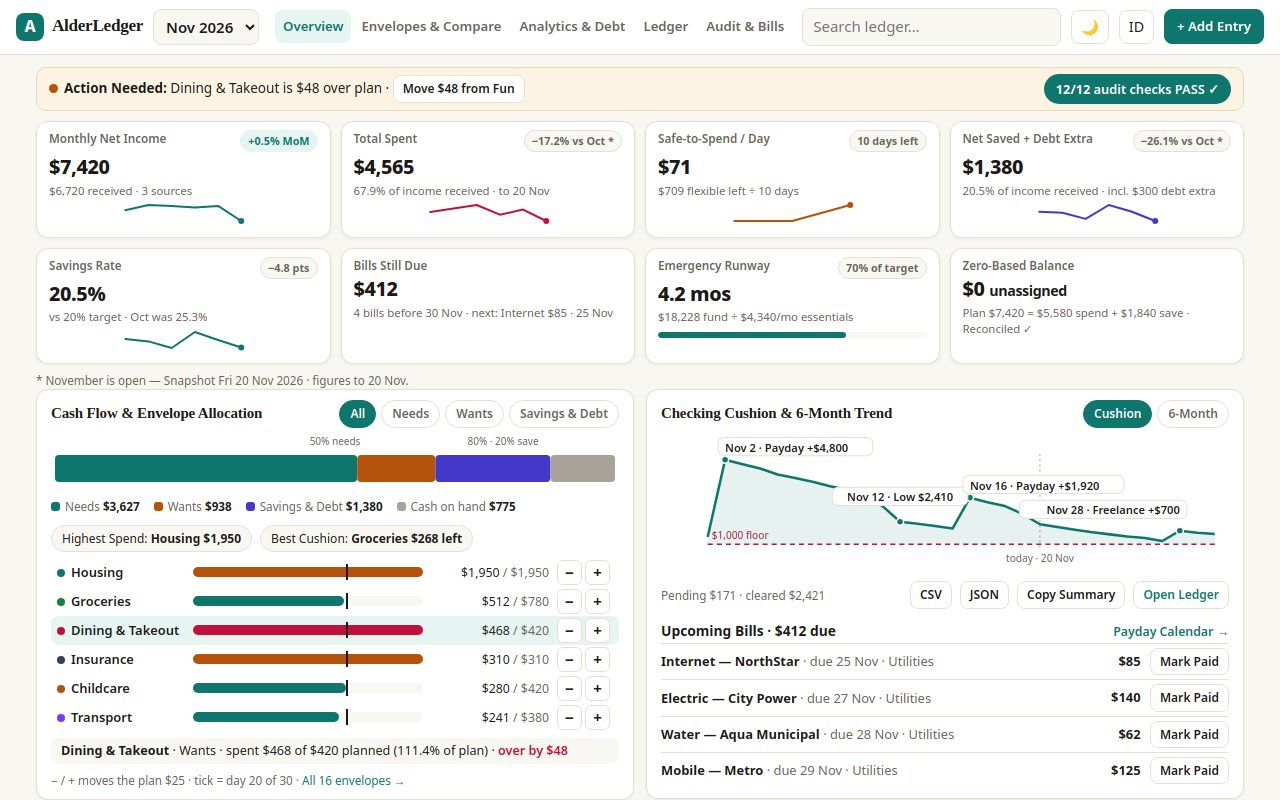
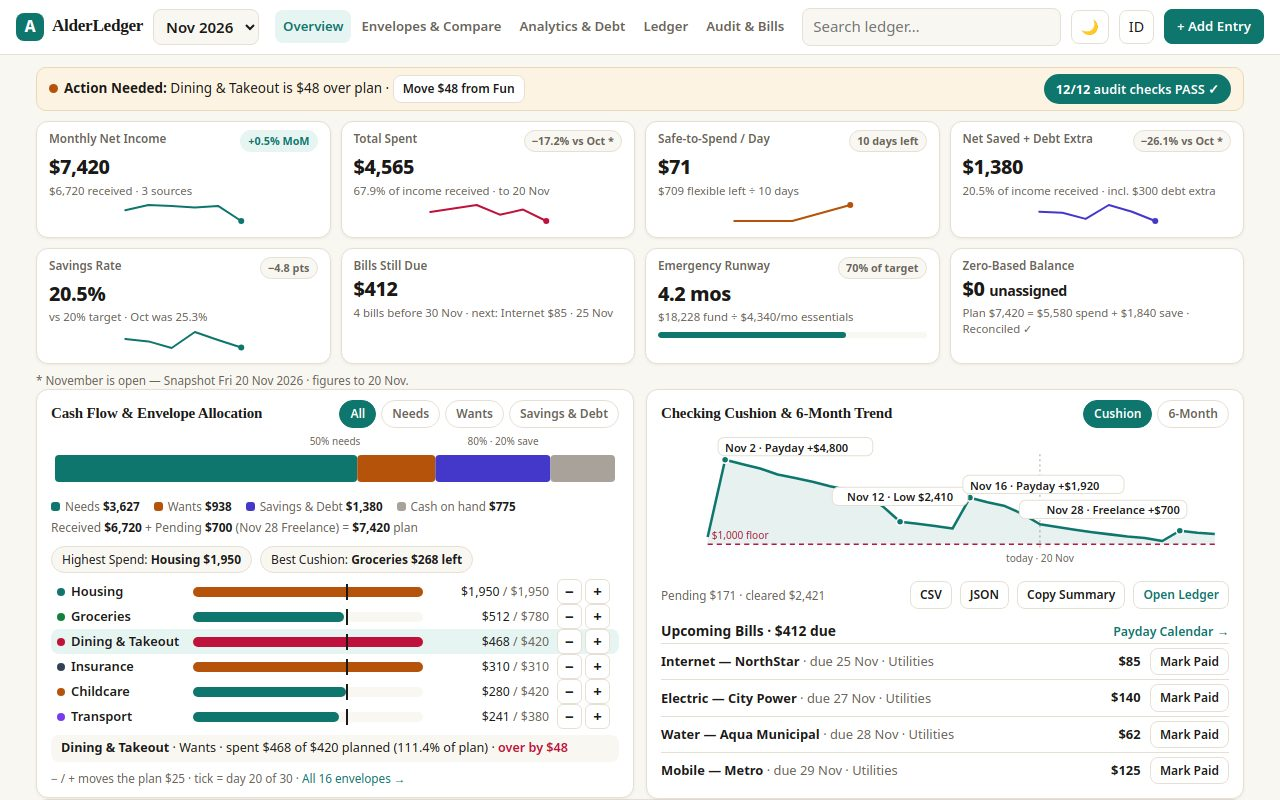
AlderLedger V6: reconciliation note + bill-draft calendar tiles + split breakdown
- Overview: the allocation legend now carries an explicit reconciliation
  line — 'Received $6,720 + Pending $700 (Nov 28 Freelance) = $7,420
  plan' — computed live from incomeReceived / expected income and the
  pending freelance source, so the $6,720 bar against the $7,420 plan
  is reconciled in one line. The pace rows lose 2px of padding each, so
  the left panel still ends at 798px and the right at 799px.
- Shot 3 strip, left: the plain payday summary is now a 5-tile
  Payday & bill draft calendar (Nov 25–Dec 2) — each tile shows its
  flows and its CUSHION-projected EOD with a floor check, and a live
  Pay / Paid toggle (cal-bill for the four November bills, dec-rent
  for the 2 Dec rent). Window low $1,210 (27 Nov) vs the $1,000 floor
  reads PASS. Footer link is now '12/12 Audit PASS · Full 30-Day
  Calendar →' to #/audit.
- Shot 3 strip, right: the register keeps its 4 rows and gains an
  expanded inline split check on Corner Market — 'Groceries $153.60 +
  Gifts $43.68 = Split Sum $197.28 · Balanced $0.00 ✓' (fmt2,
  cents-exact, computed from the actual splits). A JSON export button
  joins Download CSV and + Split Receipt.
- Data integrity: the prompt's draft EODs ($2,485 / $2,345 / $2,983 /
  $2,858) and split figures ($142 / $55) do NOT match the locked
  dataset — the real CUSHION EODs are $1,480 / $1,210 / $1,848 /
  $1,720 and the real split is $153.60 + $43.68. The strip uses the
  real numbers so it reconciles with the calendar, the cushion chart
[…]

Changed region(s): [[0.0312, 0.6562, 0.4688, 1.0]]

diff --git a/app/views/analytics.js b/app/views/analytics.js
@@ -2,7 +2,7 @@
 // Three sub-tabs: variance charts, the snowball-vs-avalanche simulator,
 // and the sinking-fund goals, plus the full category / bills table.
 
-import { DEBTS, GOALS, VAULTS, BILLS, CUSHION, INCOME, simulateDebt, fmt, pct } from '../data.js';
+import { DEBTS, GOALS, VAULTS, BILLS, CUSHION, INCOME, simulateDebt, fmt, fmt2, pct } from '../data.js';
 import { varianceDonut, trendChart, debtCurve } from '../charts.js';
 import { t } from '../i18n.js';
 
@@ -33,39 +33,76 @@ const MONTHS_SHORT = ['Jan', 'Feb', 'Mar', 'Apr', 'May', 'Jun', 'Jul', 'Aug', 'S
 function registerStrip(state, s, audit) {
   const nov = INCOME['2026-11'].sources;
   const maya = nov.find((x) => x.name.includes('Maya'));
-  const jordan = nov.find((x) => x.name.includes('Jordan'));
+  const freelance = nov.find((x) => x.pending);
   const rent = BILLS.find((b) => b.id === 'rent');
   const decBuffer = CUSHION[29] + maya.amount - rent.amount;
-  const chips = BILLS.filter((b) => b.status === 'due').map((b) => {
-    const paid = state.user.paidBills.includes(b.id);
-    const short = b.name.split(' — ')[0];
-    return `<button class="strip-chip${paid ? ' paid' : ''}" data-action="cal-bill" data-bill="${b.id}">${paid ? '✓ ' : ''}${esc(short)} ${fmt(b.amount)} · ${paid ? 'Paid' : `due ${Number(b.due.slice(8, 10))} Nov`}</button>`;
-  }).join('');
+  const decRentPaid = state.user.decRentPaid !== false;
   const dLabel = (d) => `${Number(d.slice(8, 10))} ${MONTHS_SHORT[Number(d.slice(5, 7)) - 1]}`;
   const envName = (id) => { const e = s.envelopes.find((x) => x.id === id); return e ? e.name : id; };
   // Short labels (same convention as the allocator) so a split row's
   // "Split: … · Balanced $0.00 ✓" fits on one line without ellipsis.
   const SHORT_ENV = { 'Gifts & Giving': 'Gifts', 'Dining & Takeout': 'Dining Out', 'Extra Debt Payment': 'Extra Debt', 'Fun & Streaming': 'Fun & Media' };
   const shortEnv = (id) => SHORT_ENV[envName(id)] || envName(id);
+  // --- Left: Payday & bill draft calendar (Nov 25 – Dec 2). EODs are the
+  // cushion projections — the same numbers the #/audit calendar shows —
+  // and the Pay/Paid chip is the live paid state (cal-bill / dec-rent).
+  // NOTE: the prompt's draft EODs ($2,485 / $2,345 / $2,983 / $2,858) do
+  // NOT match CUSHION — the real projections are $1,480 / $1,210 /
+  // $1,848 / $1,720 (Nov 25–29) and $4,490 on Dec 2. The strip uses the
+  // real CUSHION values so it reconciles with the calendar and the chart.
+  const dueBills = BILLS.filter((b) => b.status === 'due');
+  const isPaid = (id) => state.user.paidBills.includes(id);
+  const tileFor = (bill) => {
+    const day = Number(bill.due.slice(8, 10));
+    const eod = CUSHION[day - 1];
+    const short = bill.name.split(' — ')[0];
+    const paid = isPaid(bill.id);
+    const flows = bill.id === 'water'
+      ? `<span class="good">Freelance +${fmt(freelance.amount)}</span><span>${esc(short)} −${fmt(bill.amount)}</span>`
+      : `<span>${esc(short)} −${fmt(bill.amount)}</span>`;
+    return `<div class="cal-tile"><b>${dLabel(bill.due)}</b>${flows}<span class="cal-eod">EOD ${fmt(eod)} <i class="floor-ok" title="Above the $1,000 floor">✓</i></span><button class="tile-pay${paid ? ' paid' : ''}" data-action="cal-bill" data-bill="${bill.id}" title="Click to toggle paid / scheduled">${paid ? 'Paid ✓' : 'Pay'}</button></div>`;
+  };
+  const tiles = dueBills.map(tileFor).join('');
+  const dec2 = `<div class="cal-tile"><b>Dec 2</b><span class="good">Payday +${fmt(maya.amount)}</span><span>Rent −${fmt(rent.amount)}</span><span class="cal-eod">EOD ${fmt(decBuffer)} <i class="floor-ok" title="Above the $1,000 floor">✓</i></span><button class="tile-pay${decRentPaid ? ' paid' : ''}" data-action="dec-rent" title="Click to toggle December rent paid / due">${decRentPaid ? 'Rent Paid ✓' : 'Rent due'}</button></div>`;
+  const eods = [...dueBills.map((b) => CUSHION[Number(b.due.slice(8, 10)) - 1]), decBuffer];
+  const lowEod = Math.min(...eods);
+  const lowDay = lowEod === decBuffer ? 'Dec 2' : dLabel(dueBills.find((b) => CUSHION[Number(b.due.slice(8, 10)) - 1] === lowEod).due);
+  const floorOk = lowEod >= 100000;
+  // --- Right: split-receipt register. The top three rows stay single-line;
+  // Corner Market is expanded with its live split breakdown, computed from
+  // the actual splits (Groceries $153.60 + Gifts $43.68 = $197.28) — the
+  // prompt's $142 / $55 figures are not the seeded split, so they are not
+  // used; the strip reconciles with the ledger instead.
   const splits = s.txns.filter((x) => x.splits);
   const recent = [...s.txns].filter((x) => !x.splits && x.type === 'expense').sort((a, b) => b.date.localeCompare(a.date) || b.amount - a.amount).slice(0, 2);
-  const regRows = [...splits, ...recent].sort((a, b) => b.date.localeCompare(a.date) || b.amount - a.amount).slice(0, 4).map((x) => {
+  const corner = splits.find((x) => x.payee === 'Corner Market');
+  const others = [...splits.filter((x) => x !== corner), ...recent].sort((a, b) => b.date.localeCompare(a.date) || b.amount - a.amount).slice(0, 3);
+  const regRow = (x) => {
+    // The expanded Corner Market row drops the "· Balanced $0.00 ✓" from
+    // its sub-line — the split check directly below it carries the full
+    // balance, and the long sub would otherwise truncate with "…".
     const sub = x.splits
-      ? `Split: ${x.splits.map((sp) => shortEnv(sp.envelope)).join(' + ')} · Balanced $0.00 ✓`
+      ? (x === corner ? `Split: ${x.splits.map((sp) => shortEnv(sp.envelope)).join(' + ')}` : `Split: ${x.splits.map((sp) => shortEnv(sp.envelope)).join(' + ')} · Balanced $0.00 ✓`)
       : esc(envName(x.envelope));
     return `<div class="reg-row"><span class="reg-date">${dLabel(x.date)}</span><span class="reg-payee"><b>${esc(x.payee)}</b> <span class="muted">· ${sub}</span></span><b class="num">${fmt(x.amount)}</b><button class="pill-btn status-pill${x.status === 'scheduled' ? ' scheduled' : ''}" data-action="txn-status" data-id="${x.id}" title="Click to toggle cleared / scheduled">${x.status === 'scheduled' ? 'Scheduled' : 'Cleared ✓'}</button></div>`;
-  }).join('');
+  };
+  const regRows = others.map(regRow).join('');
+  const splitSum = corner.splits.reduce((a, sp) => a + sp.amount, 0);
+  const splitBal = corner.amount - splitSum;
+  const splitCheck = `${regRow(corner)}
+    <div class="split-check">${corner.splits.map((sp) => `<b>${esc(shortEnv(sp.envelope))} ${fmt2(sp.amount)}</b>`).join(' + ')} = <b>Split Sum ${fmt2(splitSum)}</b> · Balanced <b class="good">${fmt2(splitBal)} ✓</b></div>`;
   const auditOk = audit && audit.passed === audit.total;
   return `<section class="card strip-card"><div class="card-head"><h2>Reconciled cash-flow &amp; register</h2><span class="pill">Nov 2026 · to 20 Nov</span></div>
     <div class="sched-cols">
-      <div><h3>Payday &amp; bill funding</h3>
-        <p class="strip-lines"><b>Nov 2</b> +${fmt(maya.amount)} payday · <b>Nov 12</b> Low ${fmt(CUSHION[11])} · <b>Nov 16</b> +${fmt(jordan.amount)} payday<br>Dec rent buffer: <b class="good">${fmt(decBuffer)}</b> after the 2 Dec payday</p>
-        <div class="strip-chips">${chips}</div>
-        <p class="strip-link"><a href="#/audit">${audit ? `${audit.passed}/${audit.total} Audit ${auditOk ? 'PASS ✓' : '— check'}` : 'Audit'} · Full Calendar →</a></p>
+      <div><h3>Payday &amp; bill draft calendar</h3>
+        <div class="cal-tiles">${tiles}${dec2}</div>
+        <p class="strip-floor">Window low <b>${fmt(lowEod)}</b> (${esc(lowDay)}) · $1,000 floor · <b class="${floorOk ? 'good' : 'bad'}">${floorOk ? 'PASS ✓' : 'BELOW — check'}</b></p>
+        <p class="strip-link"><a href="#/audit">${audit ? `${audit.passed}/${audit.total} Audit ${auditOk ? 'PASS ✓' : '— check'}` : 'Audit'} · Full 30-Day Calendar →</a></p>
       </div>
       <div><h3>Split-receipt register</h3>
         ${regRows}
-        <div class="strip-actions"><button class="btn btn-sm" data-action="export" data-kind="csv">Download CSV</button><a class="btn btn-sm btn-primary" href="#/ledger">+ Split Receipt</a></div>
+        ${splitCheck}
+        <div class="strip-actions"><button class="btn btn-sm" data-action="export" data-kind="csv">Download CSV</button><button class="btn btn-sm" data-action="export" data-kind="json">JSON</button><a class="btn btn-sm btn-primary" href="#/ledger">+ Split Receipt</a></div>
       </div>
     </div></section>`;
 }

diff --git a/app/style.css b/app/style.css
@@ -109,7 +109,9 @@ main { max-width: 1240px; margin: 0 auto; padding: 12px 16px 20px; }
 .chips { display: flex; gap: 8px; flex-wrap: wrap; margin: 10px 0 4px; }
 .chip { font-size: 0.8rem; background: var(--bg); border: 1px solid var(--border); border-radius: 999px; padding: 4px 10px; }
 .pace-list { margin-top: 6px; }
-.pace-row { display: grid; grid-template-columns: 128px 1fr 118px 56px; align-items: center; gap: 8px; padding: 2px 6px; border-radius: 8px; cursor: pointer; }
+.recon-line { font-size: 0.8rem; color: var(--muted); margin-top: 4px; }
+.recon-line b { color: var(--ink); }
+.pace-row { display: grid; grid-template-columns: 128px 1fr 118px 56px; align-items: center; gap: 8px; padding: 0 6px; border-radius: 8px; cursor: pointer; }
 .pace-row:hover { background: var(--bg); }
 .pace-row.sel { background: var(--teal-soft); }
 .pace-name { font-size: 0.86rem; font-weight: 600; white-space: nowrap; overflow: hidden; text-overflow: ellipsis; }
@@ -290,15 +292,37 @@ button.cal-bill { border: 0; cursor: pointer; font: inherit; text-align: left; w
    width on a phone — the grid-2/kpi-grid rule above exists for the same
    reason. */
 .sched-cols > * { min-width: 0; }
-.sched-cols h3 { margin: 4px 0 2px; }
+.sched-cols h3 { margin: 2px 0 2px; }
 
 /* V4: Reconciled Cash-Flow & Register Strip (variance tab bottom). Rows
    are single-line so the whole strip ends well above the 800px fold. */
 .strip-lines { margin: 6px 0 8px; line-height: 1.5; }
 /* The register column gets the wider share so a split row's full
    "Split: … · Balanced $0.00 ✓" fits on one line without ellipsis. */
-.strip-card .sched-cols { grid-template-columns: 0.85fr 1.15fr; }
+.strip-card .sched-cols { grid-template-columns: 1fr 1fr; }
 .strip-chips { display: flex; flex-wrap: wrap; gap: 6px; margin: 2px 0 8px; }
+/* V6: bill-draft calendar tiles (Nov 25 – Dec 2). Five tiles in a row on
+   desktop; they wrap to three-across on phones. Every tile is one
+   min-width:0 grid child so nothing can push the strip wider than 390px. */
+.cal-tiles { display: grid; grid-template-columns: repeat(5, minmax(0, 1fr)); gap: 6px; margin: 2px 0 8px; }
+.cal-tile { min-width: 0; display: flex; flex-direction: column; gap: 1px; background: var(--bg); border: 1px solid var(--border); border-radius: 8px; padding: 6px 8px; font-size: 0.78rem; line-height: 1.45; }
+.cal-tile b { font-size: 0.82rem; }
+.cal-tile span { white-space: nowrap; overflow: hidden; text-overflow: ellipsis; }
+.cal-eod { font-weight: 700; }
+.floor-ok { color: var(--teal); font-style: normal; font-weight: 700; }
+.tile-pay { align-self: flex-start; margin-top: 3px; border: 1px solid var(--border); background: var(--card); color: var(--text); border-radius: 999px; padding: 2px 9px; font: inherit; font-size: 0.78rem; font-weight: 700; cursor: pointer; }
+.tile-pay.paid { background: var(--teal-soft); color: var(--teal); border-color: var(--teal); }
+.strip-floor { margin: 2px 0 0; font-size: 0.8rem; color: var(--muted); }
+.split-check { margin: 2px 0 1px 54px; padding: 4px 8px; background: var(--bg); border: 1px solid var(--border); border-left: 3px solid var(--teal); border-radius: 6px; font-size: 0.8rem; line-height: 1.5; }
+/* V6: the strip must end at <= 785px, so its rows and actions are tighter
+   than the rest of the app — the register rows lose 3px of padding each
+   and the actions sit 4px closer to the split check. */
+.strip-card .reg-row { padding: 3px 0; }
+.strip-card .card-head { margin-bottom: 6px; }
+@media (max-width: 640px) {
+  .cal-tiles { grid-template-columns: repeat(3, minmax(0, 1fr)); }
+  .split-check { margin-left: 0; }
+}
 .strip-chip { border: 1px solid var(--border); background: var(--bg); color: var(--text); border-radius: 999px; padding: 4px 10px; font: inherit; font-size: 0.8rem; font-weight: 600; cursor: pointer; }
 .strip-chip.paid { background: var(--teal-soft); color: var(--teal); border-color: var(--teal); }
 .strip-link { margin: 4px 0 0; font-weight: 700; }
@@ -308,7 +332,7 @@ button.cal-bill { border: 0; cursor: pointer; font: inherit; text-align: left; w
 .reg-date { color: var(--muted); font-size: 0.8rem; width: 44px; flex: none; }
 .reg-payee { flex: 1; min-width: 0; white-space: nowrap; overflow: hidden; text-overflow: ellipsis; }
 .reg-row .num { font-variant-numeric: tabular-nums; white-space: nowrap; }
-.strip-actions { display: flex; gap: 8px; margin-top: 10px; }
+.strip-actions { display: flex; flex-wrap: wrap; gap: 8px; margin-top: 6px; }
 
 /* ---- Responsive ---- */
 @media (max-width: 1280px) {
@@ -368,6 +392,10 @@ button.cal-bill { border: 0; cursor: pointer; font: inherit; text-align: left; w
   .debt-card h3 { margin-bottom: 2px; }
   .curve-callout { margin-top: 2px; }
   .sched-cols { grid-template-columns: 1fr; }
+  /* V6: the strip's two-column rule is more specific than the generic
+     one above, so it must be restated here or the strip stays side by
+     side on phones (158px columns, unreadable register rows). */
+  .strip-card .sched-cols { grid-template-columns: 1fr; }
   .sched-cols h3 { margin: 2px 0 2px; }
   /* V5: four more mobile debt cuts so the schedule card's first row
      (Store Card · paid off mo 4) is inside the 844px frame. The schedule

diff --git a/app/charts.js b/app/charts.js
@@ -3,7 +3,9 @@
 // All charts use viewBox + width 100% so they scale without clipping,
 // and every annotation sits inside the viewBox with room to spare.
 
-import { HISTORY, CUSHION, ENVELOPES, fmt } from './data.js';
+import { HISTORY, CUSHION, ENVELOPES, INCOME, fmt } from './data.js';
+
+const MONTHS_SHORT = ['Jan', 'Feb', 'Mar', 'Apr', 'May', 'Jun', 'Jul', 'Aug', 'Sep', 'Oct', 'Nov', 'Dec'];
 
 const esc = (s) => String(s).replace(/&/g, '&amp;').replace(/</g, '&lt;');
 
@@ -43,7 +45,15 @@ export function allocationStrip(s) {
   }).join('');
   const marks = [50, 80].map((p) => { const mx = (p / 100) * W; return `<line x1="${mx}" y1="19" x2="${mx}" y2="47" stroke="#0F172A" stroke-width="2" stroke-dasharray="3 3"/><text x="${mx}" y="9" text-anchor="middle" font-size="10" fill="var(--muted)">${p === 50 ? '50% needs' : '80% · 20% save'}</text>`; }).join('');
   const legend = parts.map((p) => `<span class="strip-leg"><i style="background:${p.color}"></i>${esc(p.label)} <b>${fmt(p.value)}</b></span>`).join('');
-  return `<svg viewBox="0 0 ${W} 52" width="100%" height="52" role="img" aria-label="Income allocation">${marks}${segs}</svg><div class="strip-legend">${legend}</div>`;
+  // Reconciliation: the bar is shares of RECEIVED income ($6,720), but
+  // the plan is $7,420 — the $700 freelance due 28 Nov is still pending.
+  // The note makes the gap explicit so the bar never looks short.
+  const pending = s.expected - s.incomeReceived;
+  const pendSrc = INCOME[s.monthKey] ? INCOME[s.monthKey].sources.find((x) => x.pending) : null;
+  const recon = pending > 0 && pendSrc
+    ? `<div class="recon-line">Received <b>${fmt(s.incomeReceived)}</b> + Pending <b>${fmt(pending)}</b> (${esc(MONTHS_SHORT[Number(pendSrc.date.slice(5, 7)) - 1])} ${Number(pendSrc.date.slice(8, 10))} ${esc(pendSrc.name.split(' — ')[0])}) = <b>${fmt(s.expected)}</b> plan</div>`
+    : '';
+  return `<svg viewBox="0 0 ${W} 52" width="100%" height="52" role="img" aria-label="Income allocation">${marks}${segs}</svg><div class="strip-legend">${legend}</div>${recon}`;
 }
 
 // 30-day checking cushion curve (Nov, actual to the 20th, projected

diff --git a/app/main.js b/app/main.js
@@ -235,6 +235,13 @@ document.addEventListener('click', (ev) => {
       }
       saveUser(); render();
     }
+  } else if (action === 'dec-rent') {
+    // December rent tile on the variance strip: toggle whether the 2 Dec
+    // rent is paid. The projection assumes it is paid (EOD $4,490); the
+    // chip just records the state, like the calendar's Pay/Paid chips.
+    const wasPaid = state.user.decRentPaid !== false;
+    state.user.decRentPaid = !wasPaid;
+    saveUser(); render();
   } else if (action === 'txn-status') {
     const txn = s.txns.find((x) => x.id === el.dataset.id);
     if (txn && txn.type !== 'income') {
